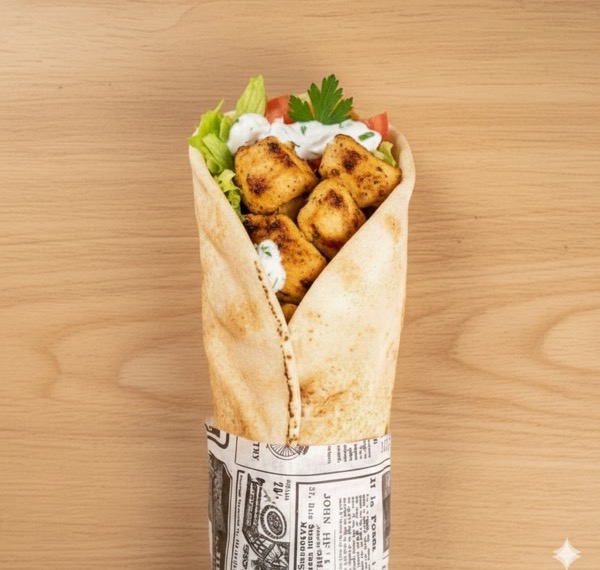
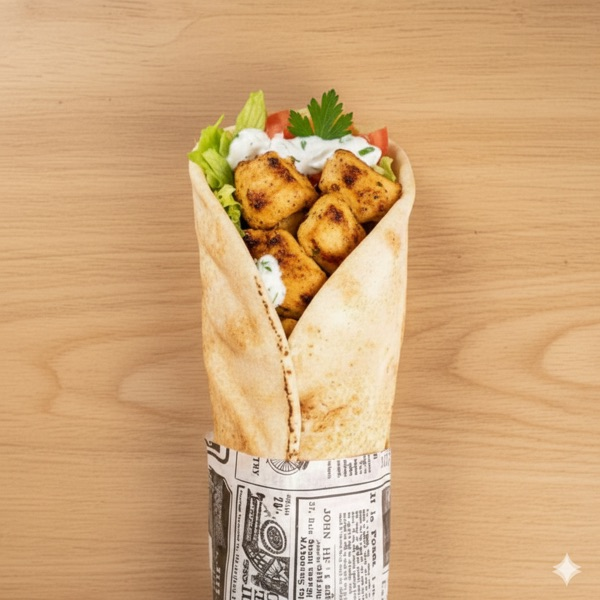
Menu complet : 8 images sandwichs + prix corrigés selon PDF Paco V6
- Ajout images : Shawarma Boeuf, Veggie, Soujouk
- MAJ images : Shawarma Poulet, Chich Taouk, Falafel, Foie Volaille, Kafta
- Prix corrigés : Formules 2/3 (11.70€), Plat du jour (13.50€), grillades

Changed region(s): [[0.33, 0.507, 0.66, 1.0], [0.3, 0.1193, 0.69, 0.4772], [0.9, 0.9246, 0.99, 1.0]]

diff --git a/index.html b/index.html
@@ -453,26 +453,26 @@ const DEMO_ITEMS = [
   // === SANDWICHS (tous à 6.90€) ===
   {id:1, categorie_id:1, nom:'Shawarma Poulet', description:'Émincé de poulet mariné, crudités, sauce maison', prix:6.90, emoji:'🌯', image_url:'img/sandwich-shawarma.jpg', disponible:true},
   {id:2, categorie_id:1, nom:'Chich Taouk', description:'Brochette de blanc de poulet mariné', prix:6.90, emoji:'🌯', image_url:'img/sandwich-chich-taouk.jpg', disponible:true},
-  {id:3, categorie_id:1, nom:'Shawarma Boeuf', description:'Émincé de boeuf mariné, crudités, sauce maison', prix:6.90, emoji:'🌯', disponible:true},
+  {id:3, categorie_id:1, nom:'Shawarma Boeuf', description:'Émincé de boeuf mariné, crudités, sauce maison', prix:6.90, emoji:'🌯', image_url:'img/sandwich-boeuf.jpg', disponible:true},
   {id:4, categorie_id:1, nom:'Falafel', description:'Boulette de fèves et pois chiches', prix:6.90, emoji:'🧆', image_url:'img/sandwich-falafel.jpg', disponible:true},
-  {id:5, categorie_id:1, nom:'Veggie', description:'Chou fleur, aubergine, crudités', prix:6.90, emoji:'🥬', disponible:true},
+  {id:5, categorie_id:1, nom:'Veggie', description:'Chou fleur, aubergine, crudités', prix:6.90, emoji:'🥬', image_url:'img/sandwich-veggie.jpg', disponible:true},
   {id:6, categorie_id:1, nom:'Foie de Volaille', description:'Mariné au citron', prix:6.90, emoji:'🍗', image_url:'img/sandwich-foie-volaille.jpg', disponible:true},
   {id:7, categorie_id:1, nom:'Kafta', description:'Brochette de boeuf hachée persillée', prix:6.90, emoji:'🍢', image_url:'img/sandwich-kafta.jpg', disponible:true},
-  {id:8, categorie_id:1, nom:'Soujouk', description:'Saucisses de boeuf épicées', prix:6.90, emoji:'🌭', disponible:true},
+  {id:8, categorie_id:1, nom:'Soujouk', description:'Saucisses de boeuf épicées', prix:6.90, emoji:'🌭', image_url:'img/sandwich-soujouk.jpg', disponible:true},
 
   // === FORMULES ===
   {id:10, categorie_id:2, nom:'Formule 1', description:'Sandwich + 2 feuilletés + boisson', prix:10.90, emoji:'1⃣', disponible:true},
-  {id:11, categorie_id:2, nom:'Formule 2', description:'Sandwich + entrée froide + boisson', prix:11.90, emoji:'2⃣', disponible:true},
-  {id:12, categorie_id:2, nom:'Formule 3', description:'Sandwich + dessert + boisson', prix:11.90, emoji:'3⃣', disponible:true},
+  {id:11, categorie_id:2, nom:'Formule 2', description:'Sandwich + entrée froide + boisson', prix:11.70, emoji:'2⃣', disponible:true},
+  {id:12, categorie_id:2, nom:'Formule 3', description:'Sandwich + dessert + boisson', prix:11.70, emoji:'3⃣', disponible:true},
   {id:13, categorie_id:2, nom:'Formule 4', description:'2 sandwiches au choix + boisson', prix:14.90, emoji:'4⃣', disponible:true},
-  {id:14, categorie_id:2, nom:'Formule Plat du Jour', description:'Plat du jour + boisson', prix:13.90, emoji:'🍽', image_url:'img/plat-jour.jpg', disponible:true},
+  {id:14, categorie_id:2, nom:'Formule Plat du Jour', description:'Plat du jour + boisson', prix:13.50, emoji:'🍽', image_url:'img/plat-jour.jpg', disponible:true},
 
   // === GRILLADES ===
   {id:20, categorie_id:3, nom:'Kafta Méchoui', description:'2 brochettes boeuf, riz, crudités', prix:13.00, emoji:'🍢', disponible:true},
   {id:21, categorie_id:3, nom:'Chich Taouk', description:'2 brochettes poulet, riz, crudités', prix:13.00, emoji:'🍗', disponible:true},
-  {id:22, categorie_id:3, nom:'Shawarma Poulet', description:'Poulet grillé à la broche, riz, crudités', prix:15.00, emoji:'🌯', disponible:true},
+  {id:22, categorie_id:3, nom:'Shawarma Poulet', description:'Poulet grillé à la broche, riz, crudités', prix:14.00, emoji:'🌯', disponible:true},
   {id:23, categorie_id:3, nom:'Shawarma Boeuf', description:'Boeuf grillé à la broche, riz, crudités', prix:15.00, emoji:'🌯', disponible:true},
-  {id:24, categorie_id:3, nom:'Grillade Mixte', description:'Shawarma, kafta, chich taouk, riz', prix:16.00, emoji:'🔥', disponible:true},
+  {id:24, categorie_id:3, nom:'Grillade Mixte', description:'Shawarma, kafta, chich taouk, riz', prix:15.00, emoji:'🔥', disponible:true},
 
   // === PLATEAUX ===
   {id:30, categorie_id:4, nom:'Beyrouth Poulet', description:'Houmous, moutabal, taboulé, shawarma poulet, riz', prix:14.00, emoji:'🥘', disponible:true},
